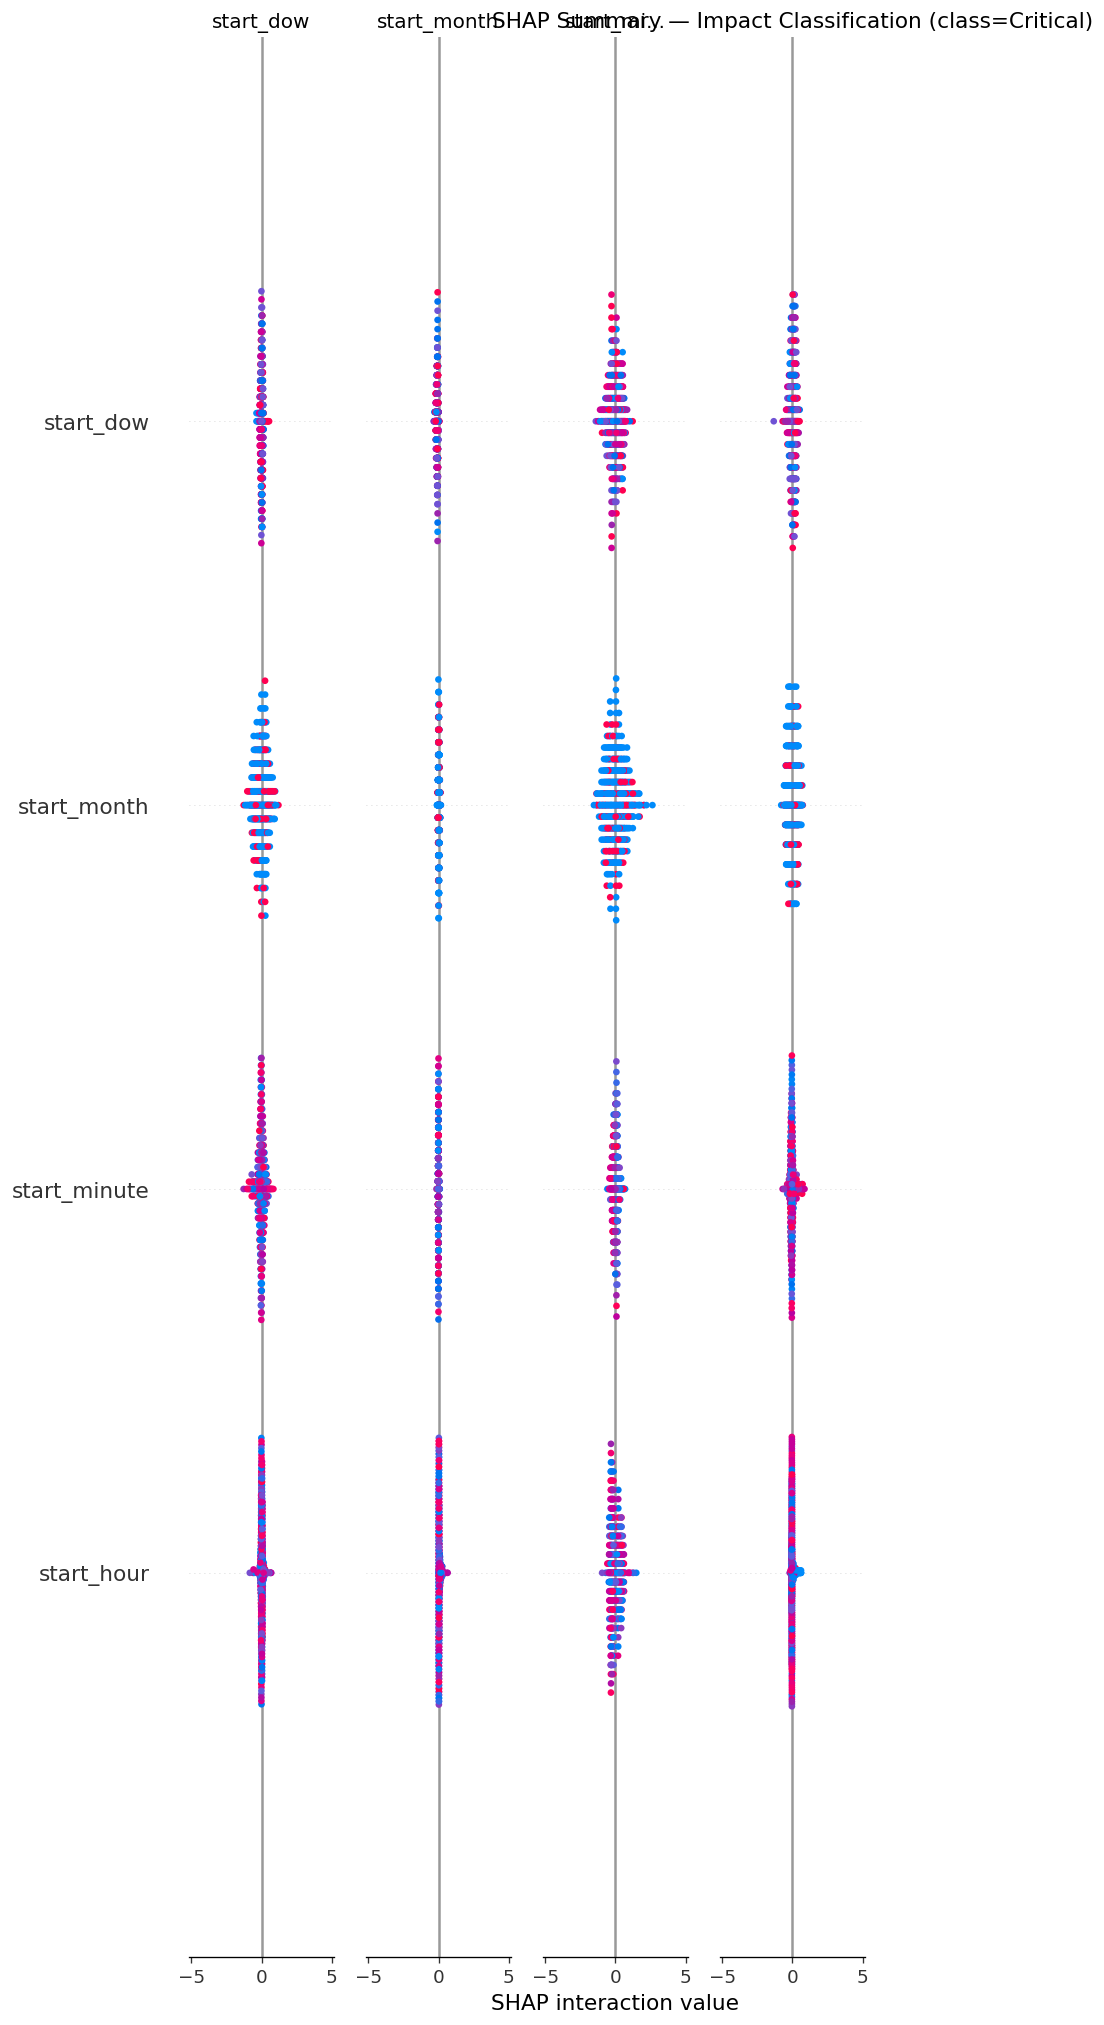
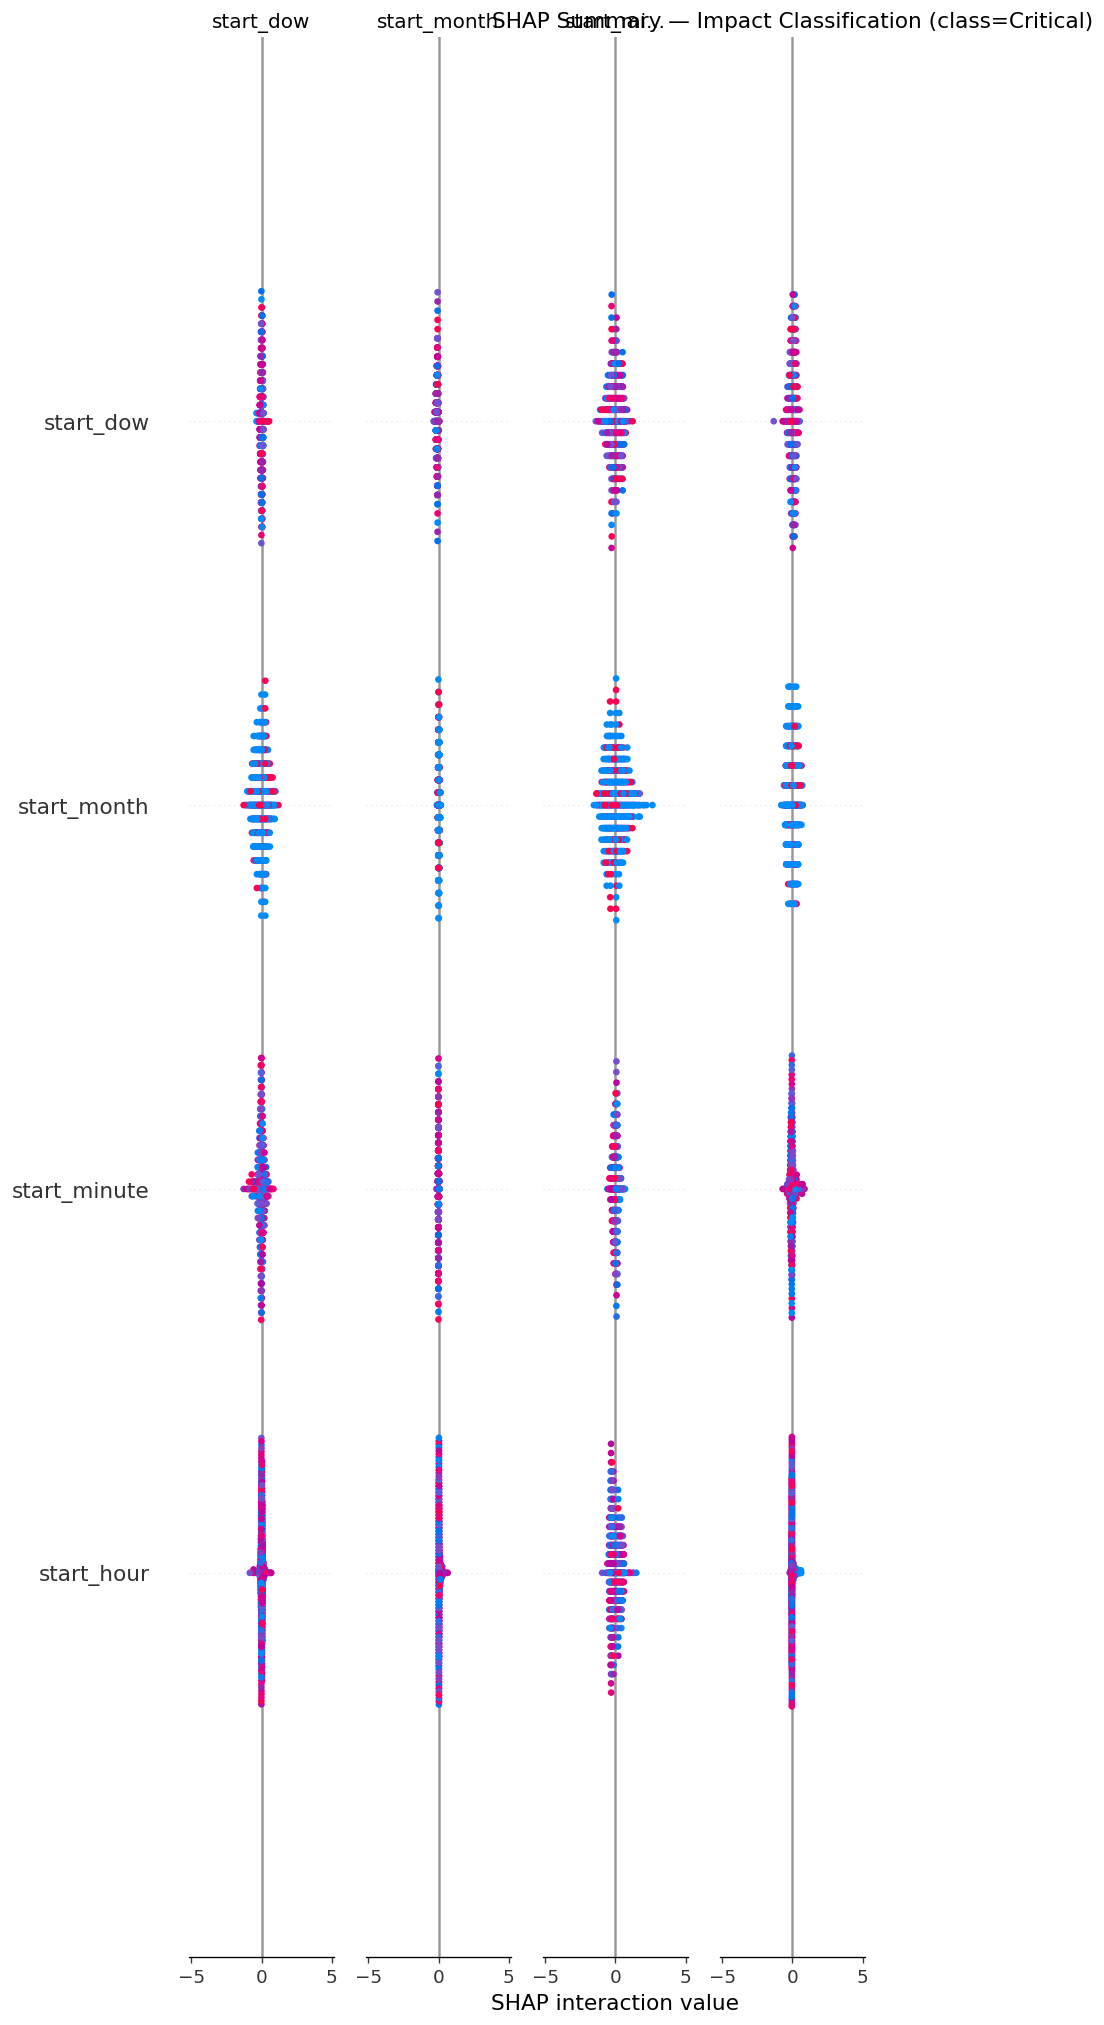
FastAPI setup and weather integration

diff --git a/backend/services/weather.py b/backend/services/weather.py
@@ -1,0 +1,48 @@
+import os
+import requests
+from dotenv import load_dotenv
+
+load_dotenv()
+
+API_KEY = os.getenv("WEATHER_API_KEY")
+
+
+def get_weather(lat, lon):
+
+    url = (
+        f"https://api.weatherapi.com/v1/current.json"
+        f"?key={API_KEY}&q={lat},{lon}"
+    )
+
+    response = requests.get(url)
+    data = response.json()
+
+    return {
+        "temperature_c": data["current"]["temp_c"],
+        "humidity": data["current"]["humidity"],
+        "visibility_km": data["current"]["vis_km"],
+        "wind_kph": data["current"]["wind_kph"],
+        "condition": data["current"]["condition"]["text"]
+    }
+def weather_to_features(weather):
+
+    condition = weather["condition"].lower()
+
+    return {
+        "temperature_c": weather["temperature_c"],
+
+        "weather_visibility_factor":
+            weather["visibility_km"],
+
+        "is_rain_event":
+            int("rain" in condition),
+
+        "is_fog_event":
+            int("fog" in condition),
+
+        "is_storm_event":
+            int(
+                "storm" in condition
+                or "thunder" in condition
+            )
+    }

diff --git a/backend/predict.py b/backend/predict.py
@@ -1,0 +1,23 @@
+from fastapi import APIRouter
+from backend.schemas import IncidentRequest
+from backend.services.weather import (
+    get_weather,
+    weather_to_features
+)
+
+router = APIRouter()
+
+@router.post("/predict")
+def predict(payload: IncidentRequest):
+
+    weather = get_weather(
+        payload.lat,
+        payload.lon
+    )
+
+    weather_features = weather_to_features(weather)
+
+    return {
+        "weather": weather,
+        "weather_features": weather_features
+    }

diff --git a/backend/models.py b/backend/models.py
@@ -1,0 +1,13 @@
+import lightgbm as lgb
+
+severity_clf = lgb.Booster(
+    model_file="outputs/severity_clf_model.txt"
+)
+
+severity_reg = lgb.Booster(
+    model_file="outputs/severity_reg_model.txt"
+)
+
+risk_model = lgb.Booster(
+    model_file="outputs/risk_model.txt"
+)

diff --git a/backend/app.py b/backend/app.py
@@ -1,0 +1,10 @@
+from fastapi import FastAPI
+from backend.predict import router
+
+app = FastAPI(title="Dawki API")
+
+app.include_router(router)
+
+@app.get("/")
+def root():
+    return {"status": "running"}

diff --git a/backend/schemas.py b/backend/schemas.py
@@ -1,0 +1,9 @@
+from pydantic import BaseModel
+
+class IncidentRequest(BaseModel):
+    lat: float
+    lon: float
+    zone: str
+    corridor: str
+    event_type: str
+    priority: int
